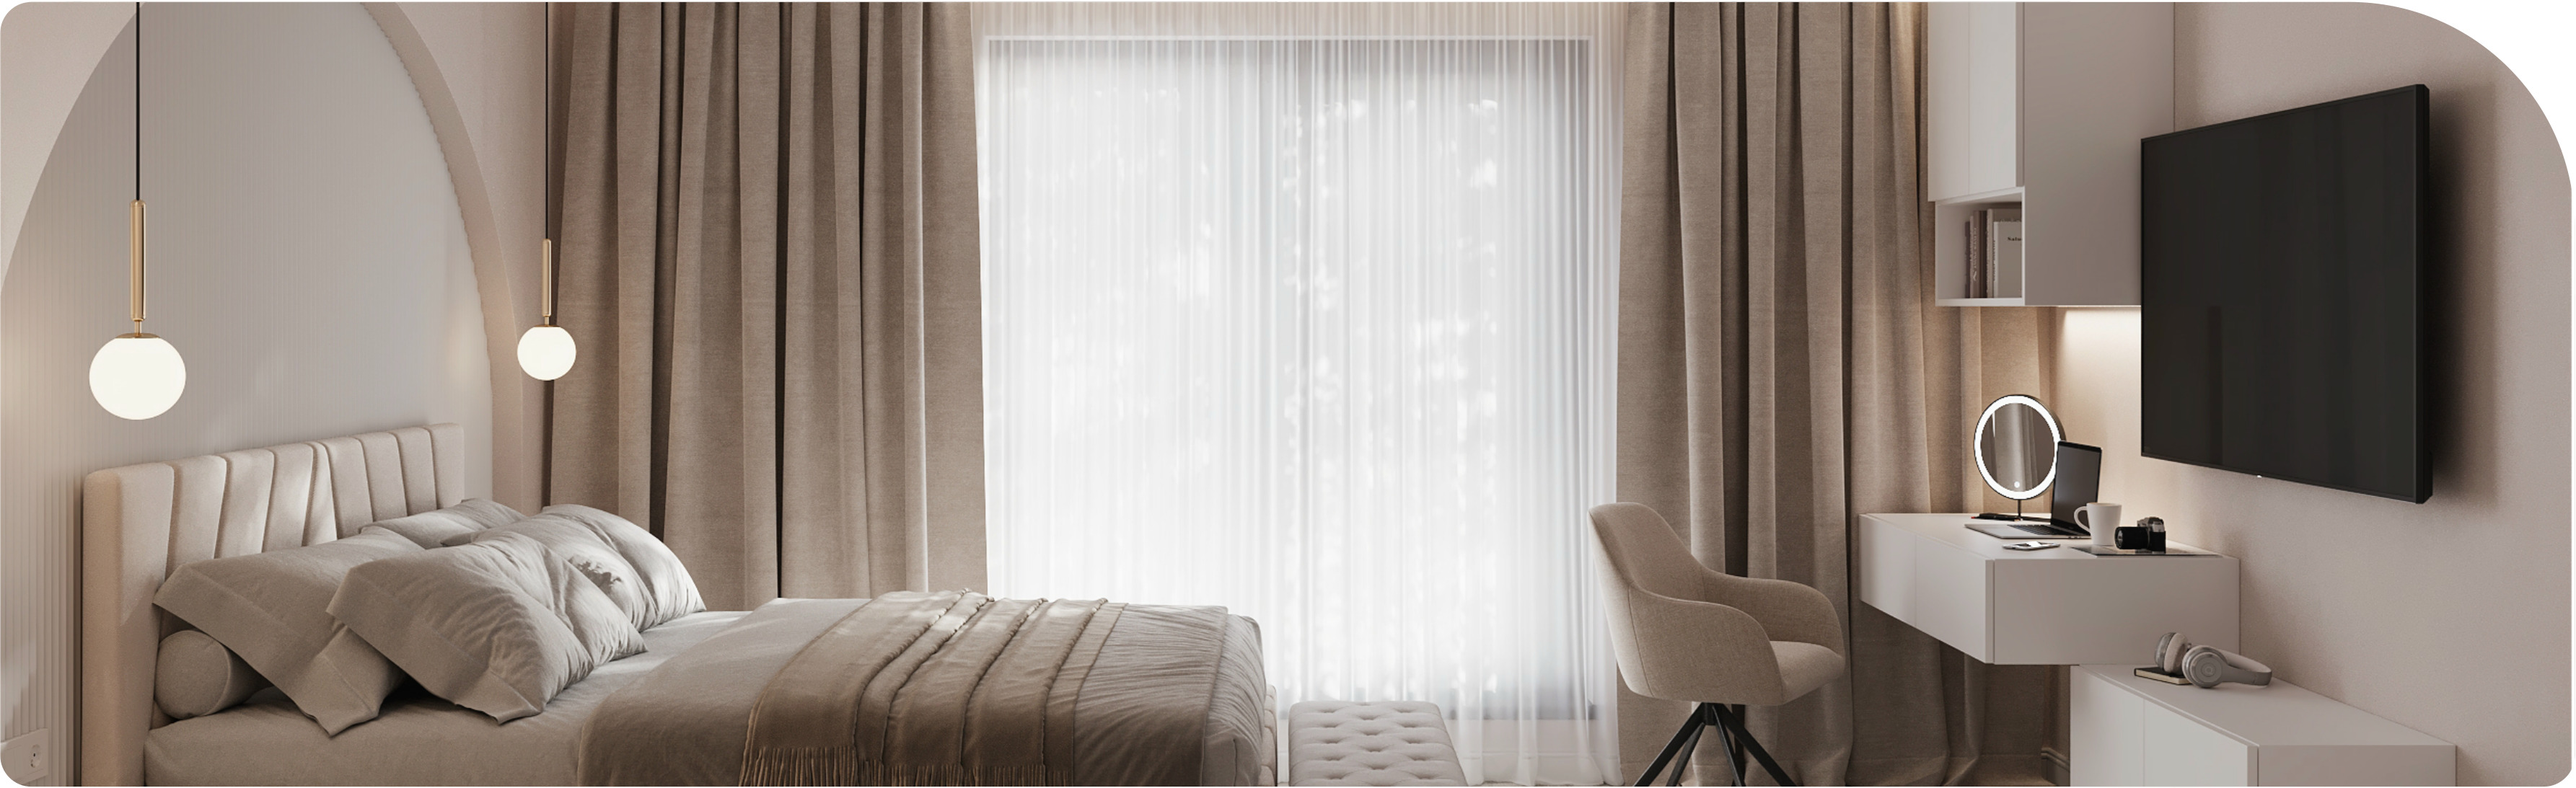
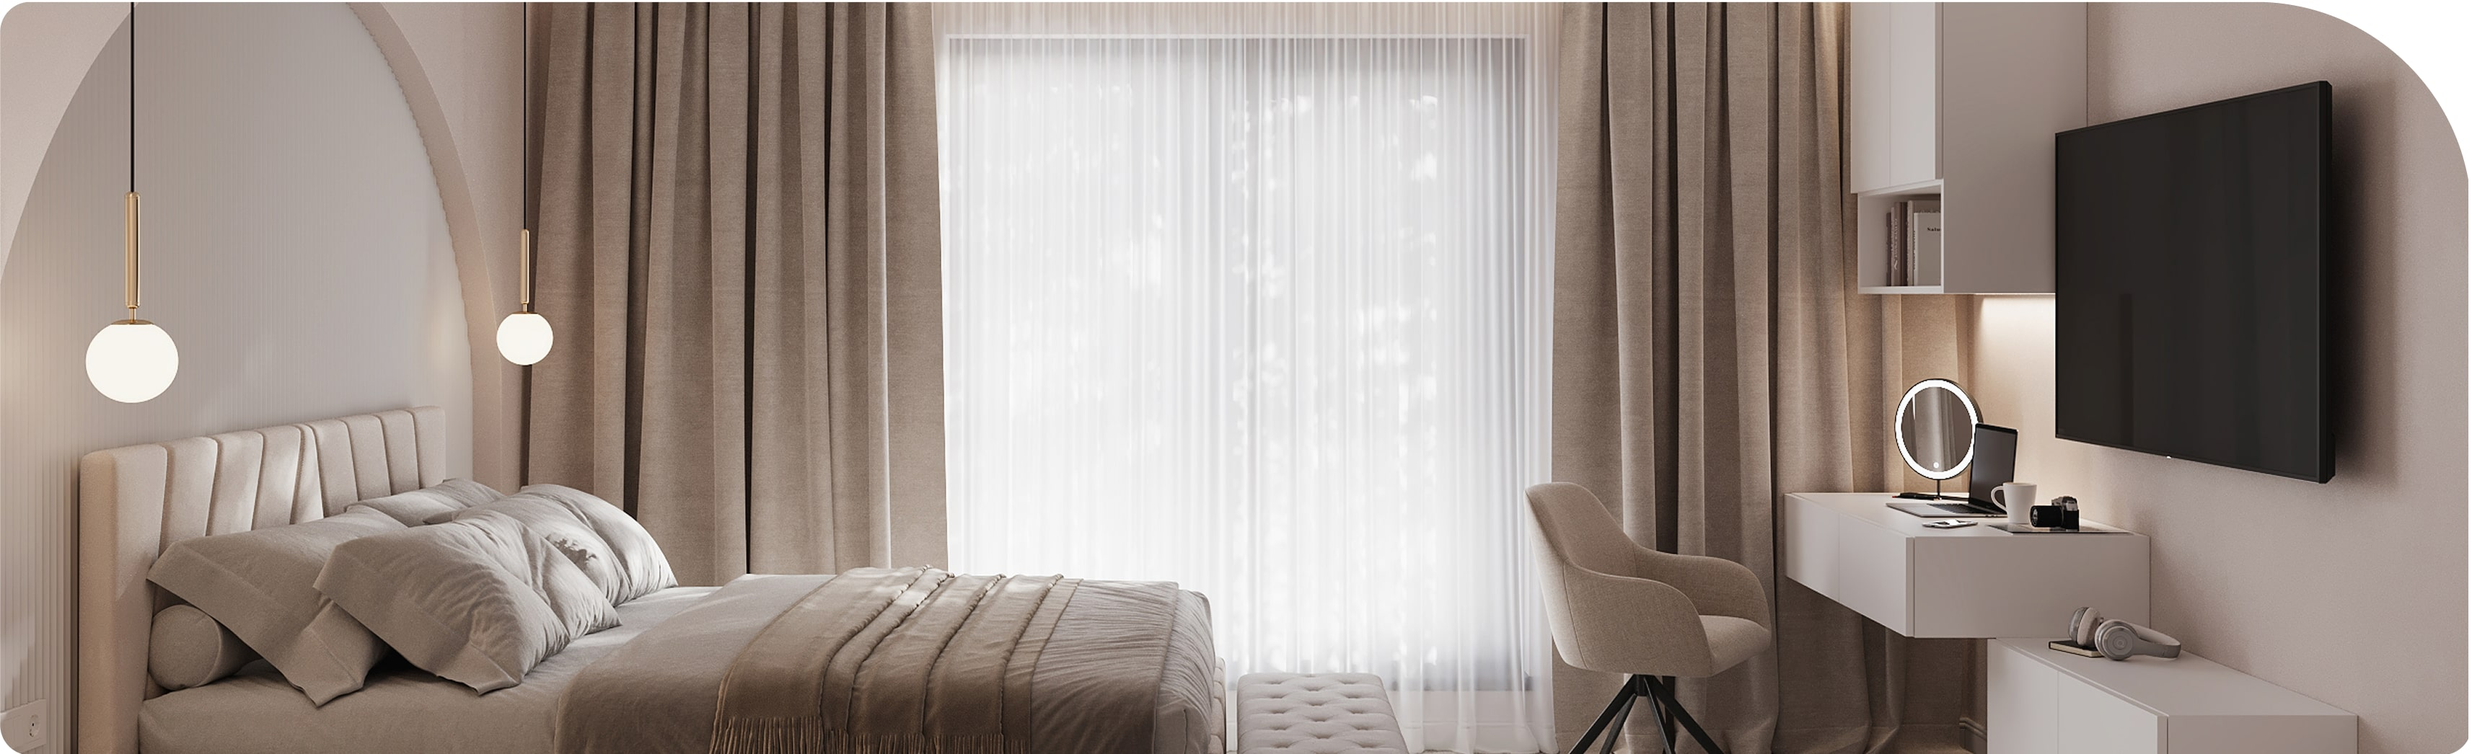
Fixed  photo quality

diff --git a/app/[locale]/about/_components/AboutHero.tsx b/app/[locale]/about/_components/AboutHero.tsx
@@ -32,8 +32,8 @@ export default function AboutHero() {
             <Image 
                 src="/images/about-hero.jpg"
                 alt={t('aboutHero.image_alt')} 
-                width={800} 
-                height={600} 
+                width={2284}
+                height={696}
                 priority
                 className='w-full h-100 object-cover object-center mt-6 md:mt-8 lg:mt-10 rounded-tl-xl rounded-bl-xl rounded-br-xl rounded-tr-[130px]' 
             />
